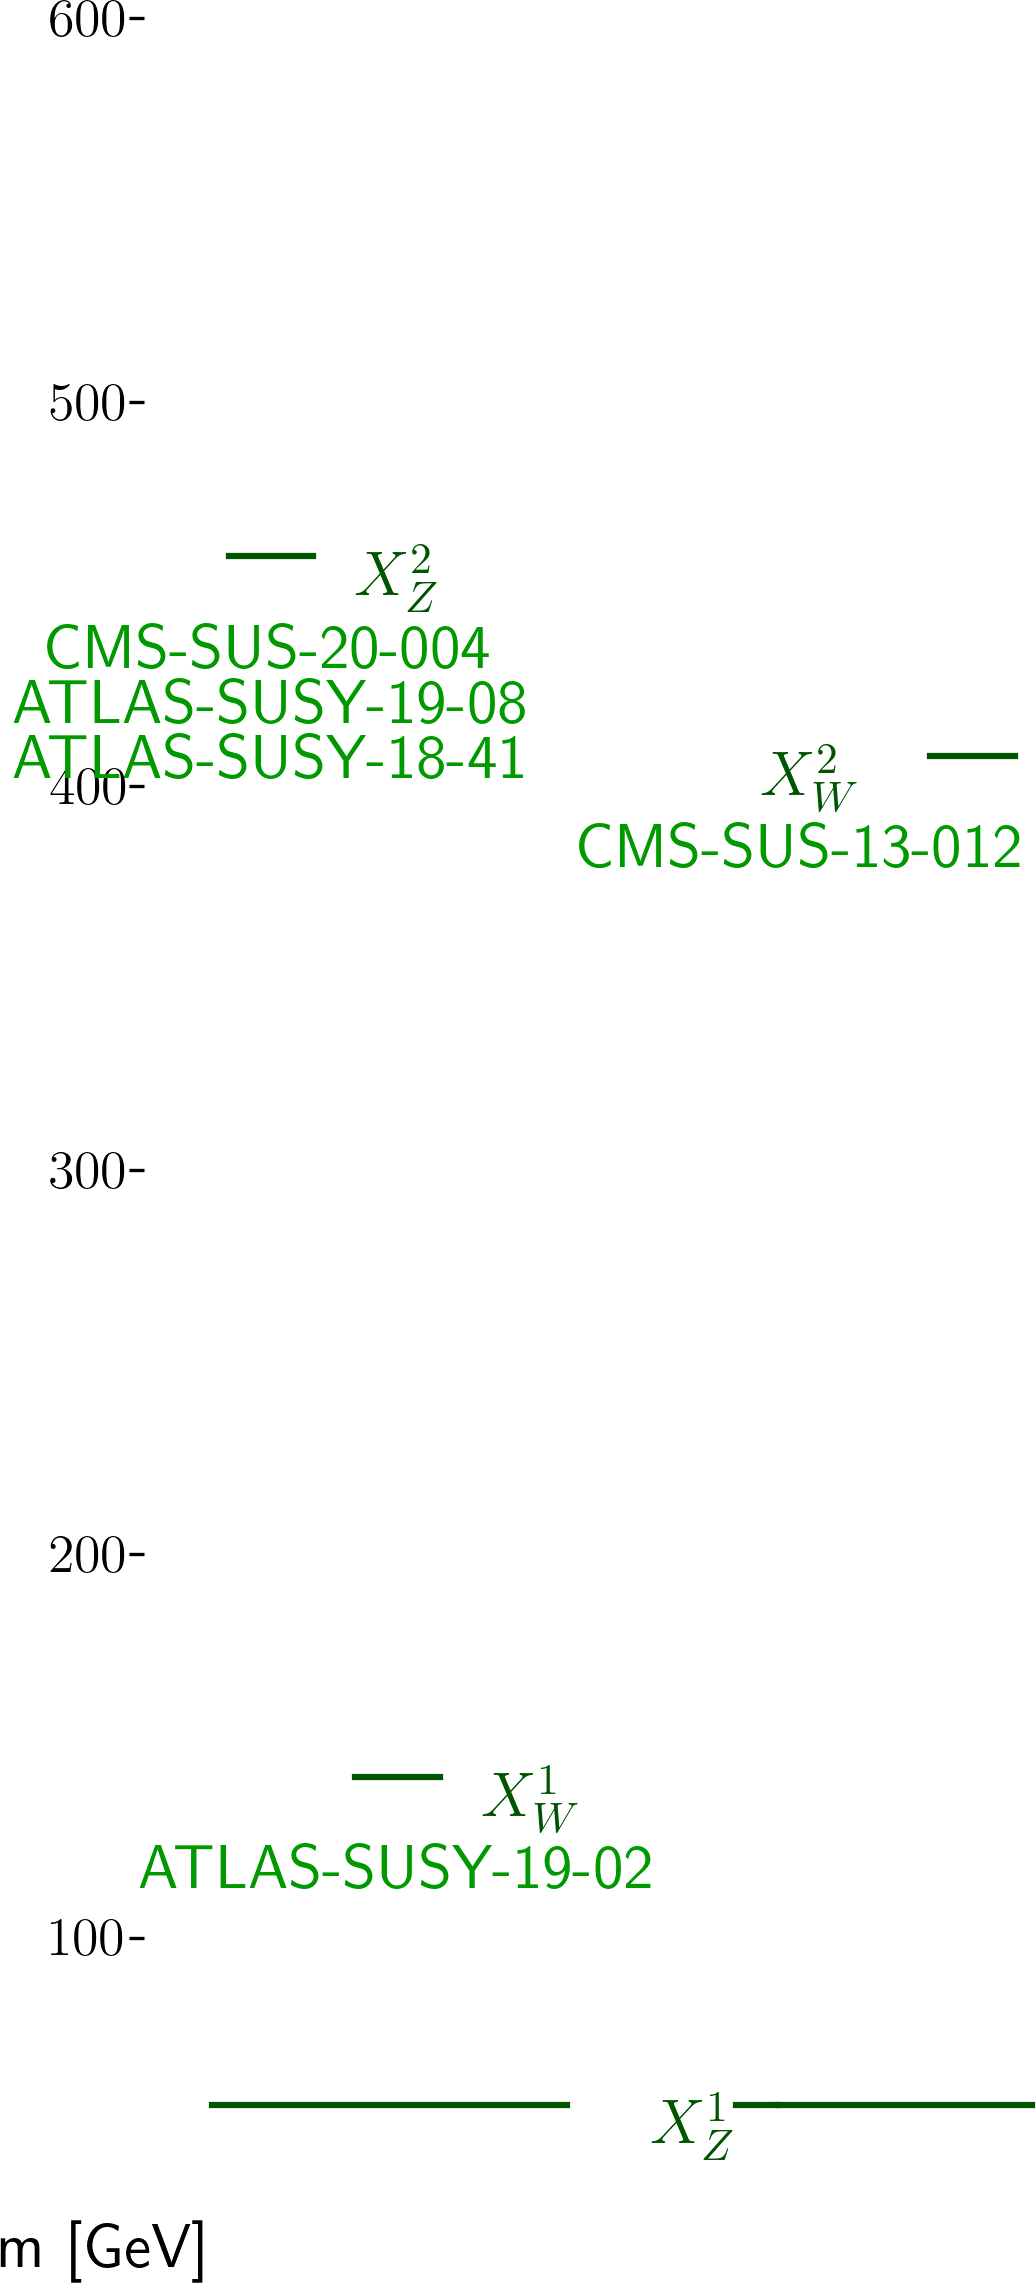
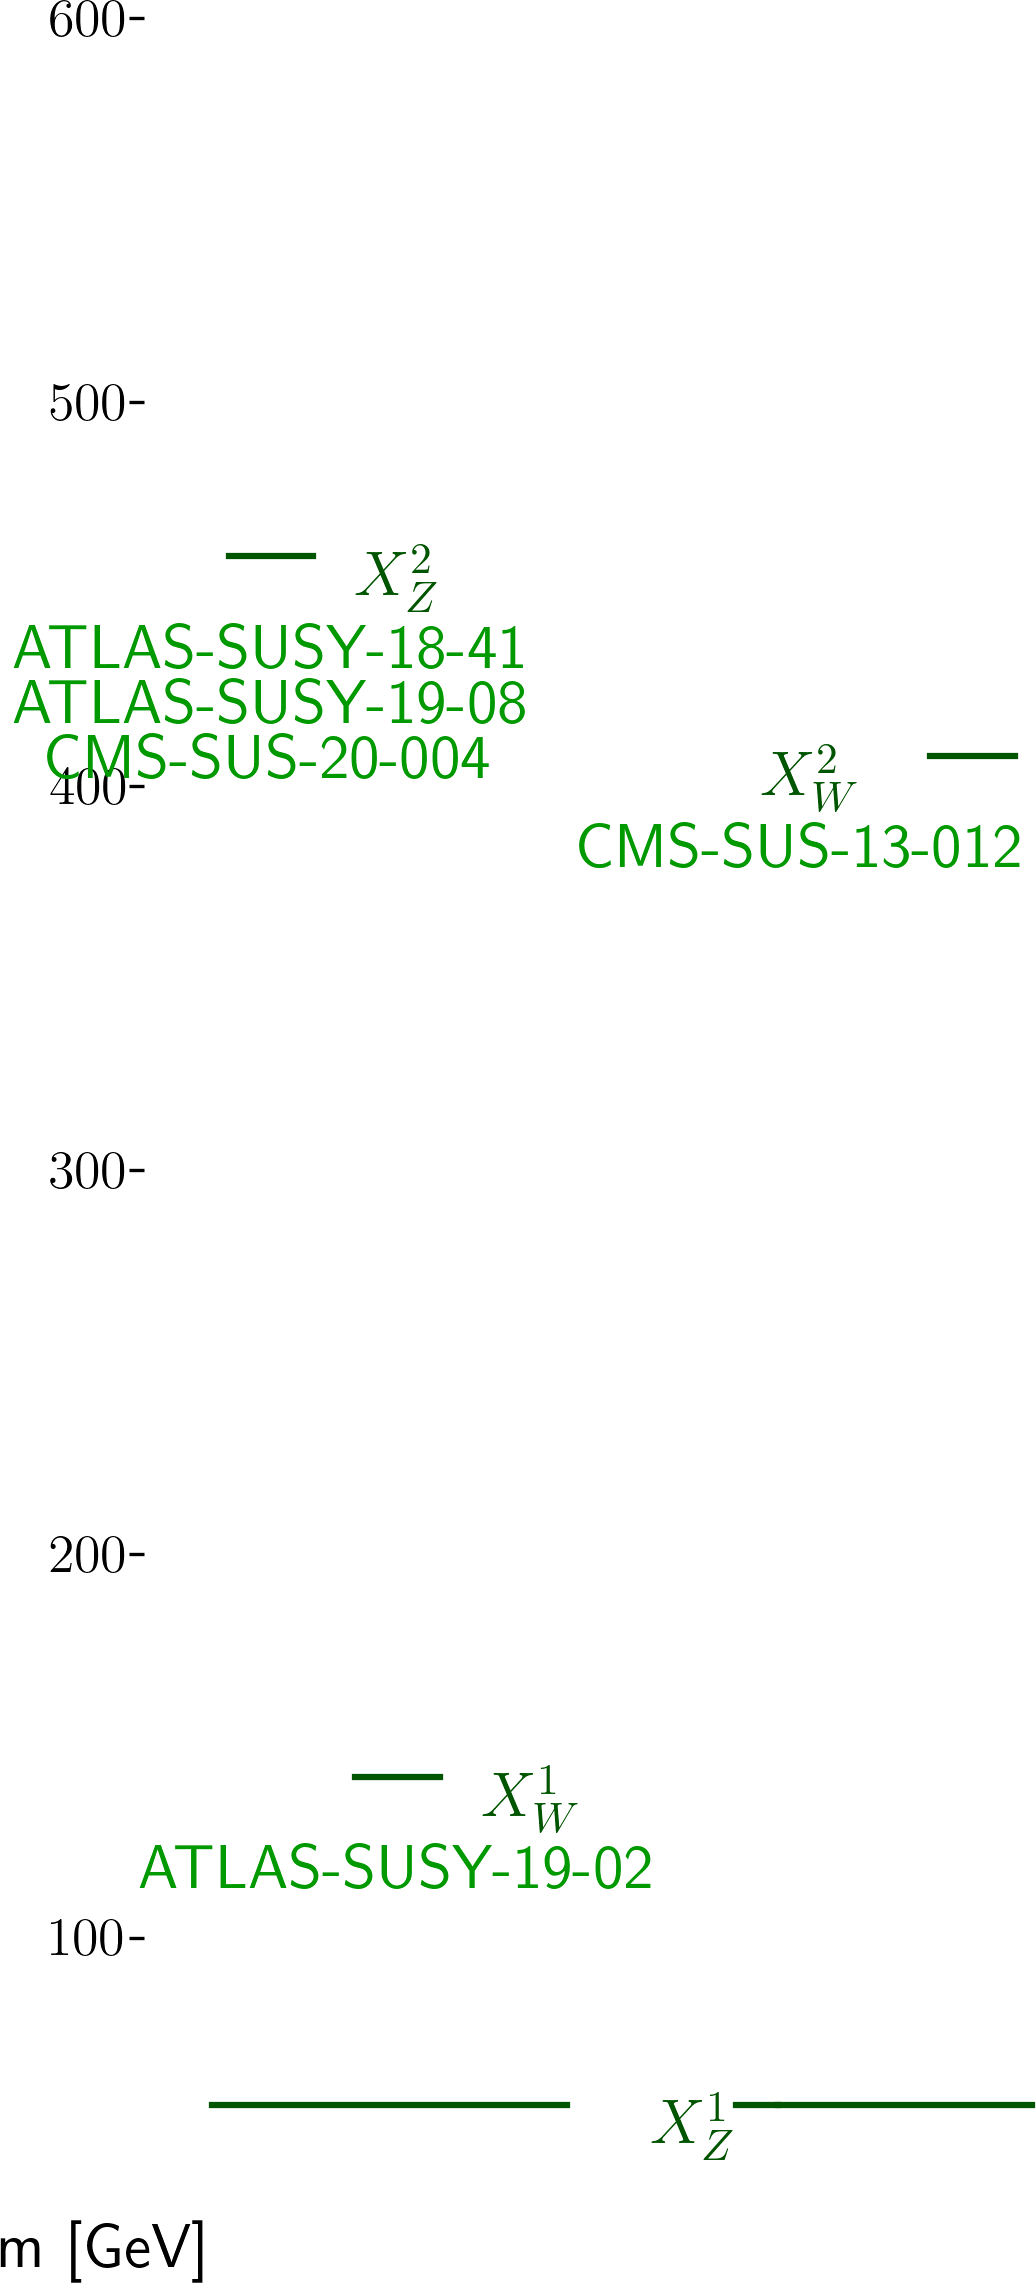
automated update by plotHiscore.py to ewkinos_300:     K=7.643 Z=3.53 walkerid=871

Changed region(s): [[0.0, 0.2488, 0.4942, 0.3421]]

diff --git a/protomodels/ewkinos_300/index.html b/protomodels/ewkinos_300/index.html
@@ -3,22 +3,22 @@
 <center>
 <table><td><h1>Current best protomodel: <i>K</i>=7.64, <i>Z</i>=3.53</h1><td><img height=60px src=https://smodels.github.io//protomodels/logos/protomodel_lego.png></table>
 </center>
-<b><a href=./hiscore.slha>ProtoModel</a> <a href=./pmodel.dict>(dict)</a> produced with <a href=https://smodels.github.io//docs/Validation300-beta>database v3.0.0-beta</a>, combination strategy <a href=./matrix.png>aggressive</a> in walker 871 step 461.</b> llhd plots: <a href=llhdX2Z.png?1583127>X2Z</a> <a href=llhdX1W.png?1583127>X1W</a>
-S plots: <a href=MX2Z.png?1583127>X2Z</a> <a href=MX1W.png?1583127>X1W</a> <a href=MX2W.png?1583127>X2W</a> <a href=MX1Z.png?1583127>X1Z</a>
+<b><a href=./hiscore.slha>ProtoModel</a> <a href=./pmodel.dict>(dict)</a> produced with <a href=https://smodels.github.io//docs/Validation300-beta>database v3.0.0-beta</a>, combination strategy <a href=./matrix.png>aggressive</a> in walker 871 step 461.</b> llhd plots: <a href=llhdX2Z.png?1583499>X2Z</a> <a href=llhdX1W.png?1583499>X1W</a>
+S plots: <a href=MX2Z.png?1583499>X2Z</a> <a href=MX1W.png?1583499>X1W</a> <a href=MX2W.png?1583499>X2W</a> <a href=MX1Z.png?1583499>X1Z</a>
 <br>
 <table width=80%>
 <tr><td>
 <br><b>10 predictions available. Highest r values are:</b><br><ul>
-<li><a href=http://cms-results.web.cern.ch/cms-results/public-results/publications/SUS-21-002/>CMS-SUS-21-002</a>:comb:TChiWH,TChiWW r=1.13, r<sub>exp</sub>=0.88<br>
+<li><a href=http://cms-results.web.cern.ch/cms-results/public-results/publications/SUS-21-002/>CMS-SUS-21-002</a>:comb:TChiWW,TChiWH r=1.13, r<sub>exp</sub>=0.88<br>
 <li><a href=https://atlas.web.cern.ch/Atlas/GROUPS/PHYSICS/PAPERS/SUSY-2013-11/>ATLAS-SUSY-2013-11</a>:em:TChiWW r=1.09, r<sub>exp</sub>=0.97<br>
 <li><a href=http://cms-results.web.cern.ch/cms-results/public-results/publications/SUS-20-004/>CMS-SUS-20-004</a>:comb:TChiHH r=0.55, r<sub>exp</sub>=1.15<br>
 <li><a href=https://atlas.web.cern.ch/Atlas/GROUPS/PHYSICS/PAPERS/SUSY-2019-02/>ATLAS-SUSY-2019-02</a>:comb:TChiWW r=0.50, r<sub>exp</sub>=0.85<br>
 </ul>
-<td><img width=600px src=./texdoc.png?1710703127>
-<br><font size=-1>Last updated: Sun Mar 17 20:18:47 2024</font>
+<td><img width=600px src=./texdoc.png?1710703499>
+<br><font size=-1>Last updated: Sun Mar 17 20:24:59 2024</font>
 </table><table style="width:80%">
-<td width=45%><img height=580px src=./ruler.png?1710703127><td width=55%><img height=220px src=./decays.png?1710703127>
-<font size=-3><iframe type="text/html" height="350px" width="100%" frameborder="0" src="./rawnumbers.html?1710703127"></iframe></font>
+<td width=45%><img height=580px src=./ruler.png?1710703499><td width=55%><img height=220px src=./decays.png?1710703499>
+<font size=-3><iframe type="text/html" height="350px" width="100%" frameborder="0" src="./rawnumbers.html?1710703499"></iframe></font>
 </table>
 </body>
 </html>

diff --git a/protomodels/ewkinos_300/rawnumbers.html b/protomodels/ewkinos_300/rawnumbers.html
@@ -2,8 +2,8 @@
 <tr><th>Analysis Name</th><th>Type</th><th>Dataset</th><th>Topos</th><th>Observed</th><th>Expected</th><th>Approx &sigma;</th><th>Particles</th>
 </tr>
 <tr><td><a href=http://cms-results.web.cern.ch/cms-results/public-results/publications/SUS-20-004/>CMS-SUS-20-004</a></td><td>comb</td> <td>-</td><td>TChiHH</td><td> 0.2 fb </td><td> 0.1 fb</td><td style="text-align:right">2.3 &sigma;</td><td style="text-align:right">X<sup>1</sup><sub>Z</sub>, X<sup>2</sup><sub>Z</sub></td></tr>
-<tr><td><a href=https://atlas.web.cern.ch/Atlas/GROUPS/PHYSICS/PAPERS/SUSY-2019-08/>ATLAS-SUSY-2019-08</a></td><td>em</td> <td>SR_MM_Med_MCT</td><td>TChiWH</td><td>7</td><td>2.60 +/- 1.30</td><td style="text-align:right">1.8 &sigma;</td><td style="text-align:right">X<sup>1</sup><sub>Z</sub>, X<sup>2</sup><sub>Z</sub></td></tr>
 <tr><td><a href=https://twiki.cern.ch/twiki/bin/view/CMSPublic/PhysicsResultsSUS13012>CMS-SUS-13-012</a></td><td>em</td> <td>6NJet8_500HT800 ...</td><td>TChiWW</td><td>9</td><td>0.80 +/- 3.30</td><td style="text-align:right">1.8 &sigma;</td><td style="text-align:right">X<sup>2</sup><sub>W</sub>, X<sup>1</sup><sub>Z</sub></td></tr>
+<tr><td><a href=https://atlas.web.cern.ch/Atlas/GROUPS/PHYSICS/PAPERS/SUSY-2019-08/>ATLAS-SUSY-2019-08</a></td><td>em</td> <td>SR_MM_Med_MCT</td><td>TChiWH</td><td>7</td><td>2.60 +/- 1.30</td><td style="text-align:right">1.8 &sigma;</td><td style="text-align:right">X<sup>1</sup><sub>Z</sub>, X<sup>2</sup><sub>Z</sub></td></tr>
 <tr><td><a href=https://atlas.web.cern.ch/Atlas/GROUPS/PHYSICS/PAPERS/SUSY-2019-02/>ATLAS-SUSY-2019-02</a></td><td>comb</td> <td>-</td><td>TChiWW</td><td> 2 fb </td><td> 0.9 fb</td><td style="text-align:right">1.3 &sigma;</td><td style="text-align:right">X<sup>1</sup><sub>W</sub>, X<sup>1</sup><sub>Z</sub></td></tr>
 <tr><td><a href=https://atlas.web.cern.ch/Atlas/GROUPS/PHYSICS/PAPERS/SUSY-2013-11/>ATLAS-SUSY-2013-11</a></td><td>em</td> <td>mT2-120-DF</td><td>TChiWW</td><td>5</td><td>3.60 +/- 1.20</td><td style="text-align:right">0.7 &sigma;</td><td style="text-align:right">X<sup>1</sup><sub>Z</sub></td></tr>
 <tr><td><a href=https://atlas.web.cern.ch/Atlas/GROUPS/PHYSICS/PAPERS/SUSY-2018-41/>ATLAS-SUSY-2018-41</a></td><td>em</td> <td>SR-2B2Q-Vh</td><td>TChiHH</td><td>1</td><td>2.49 +/- 0.78</td><td style="text-align:right">-0.8 &sigma;</td><td style="text-align:right">X<sup>1</sup><sub>Z</sub>, X<sup>2</sup><sub>Z</sub></td></tr>
